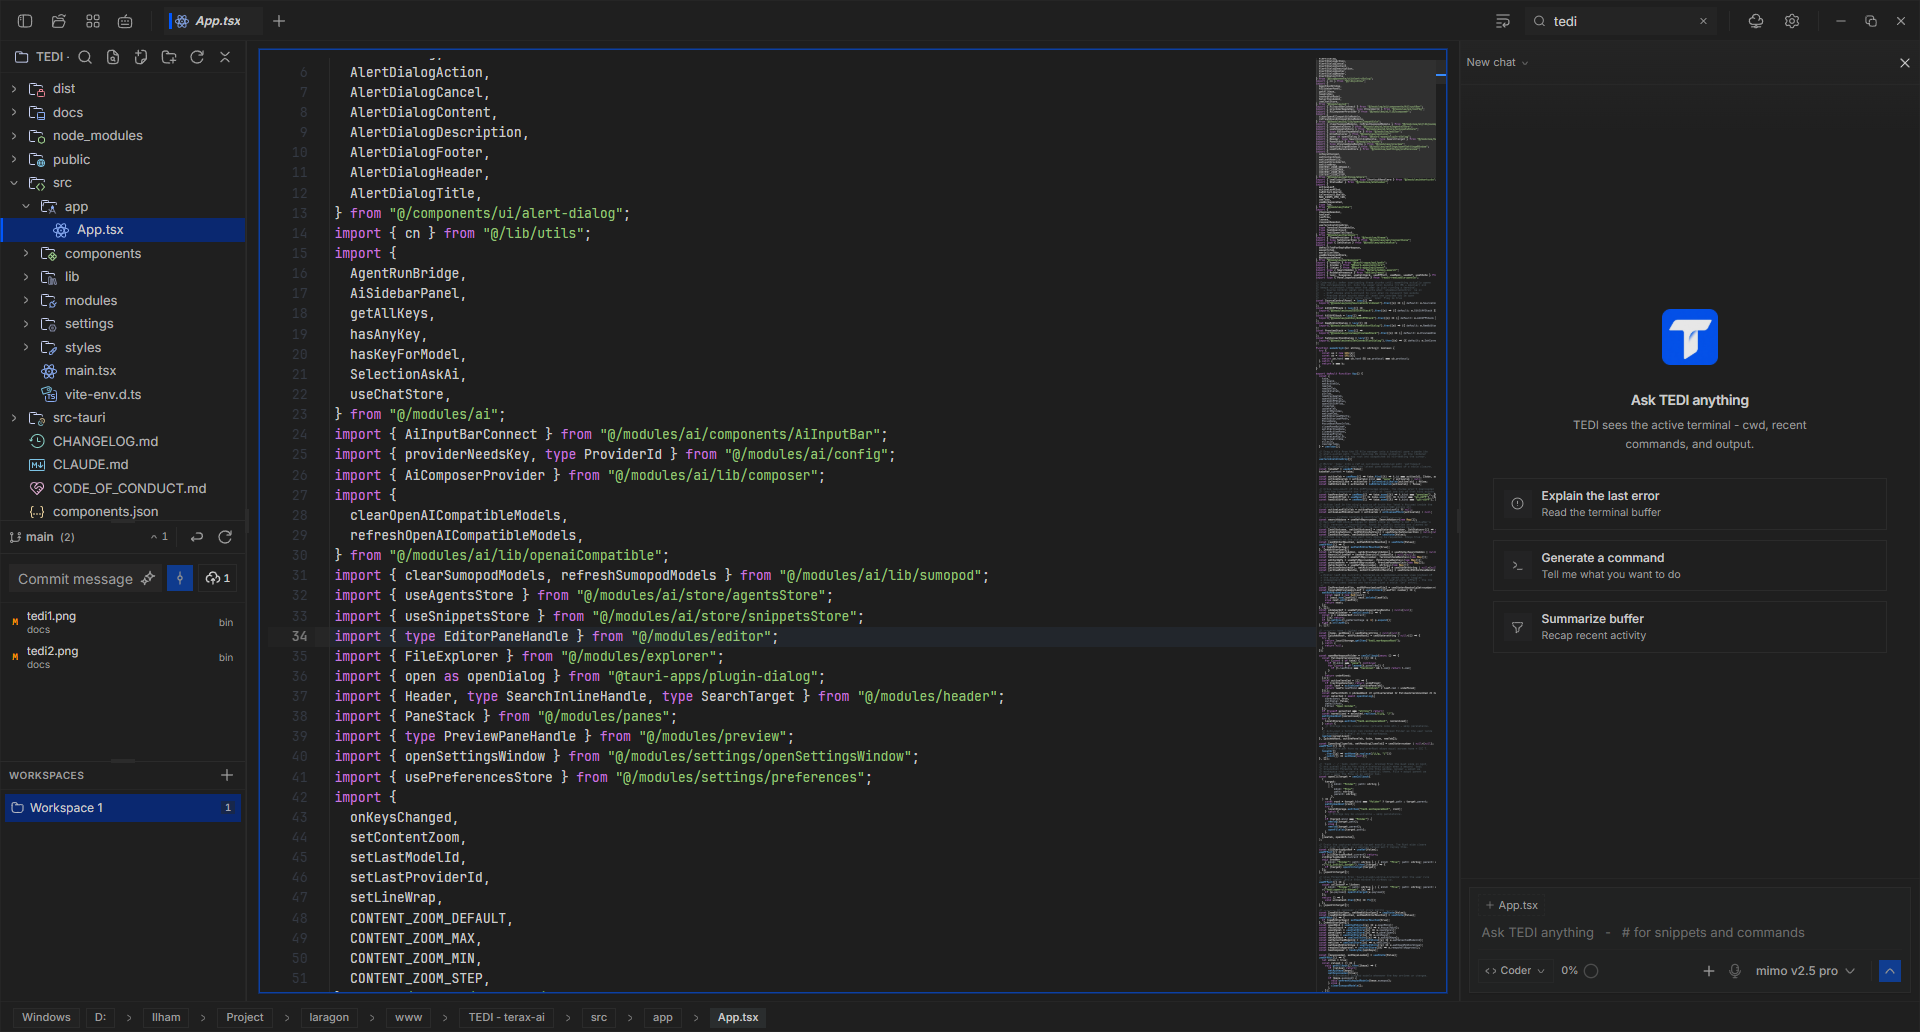
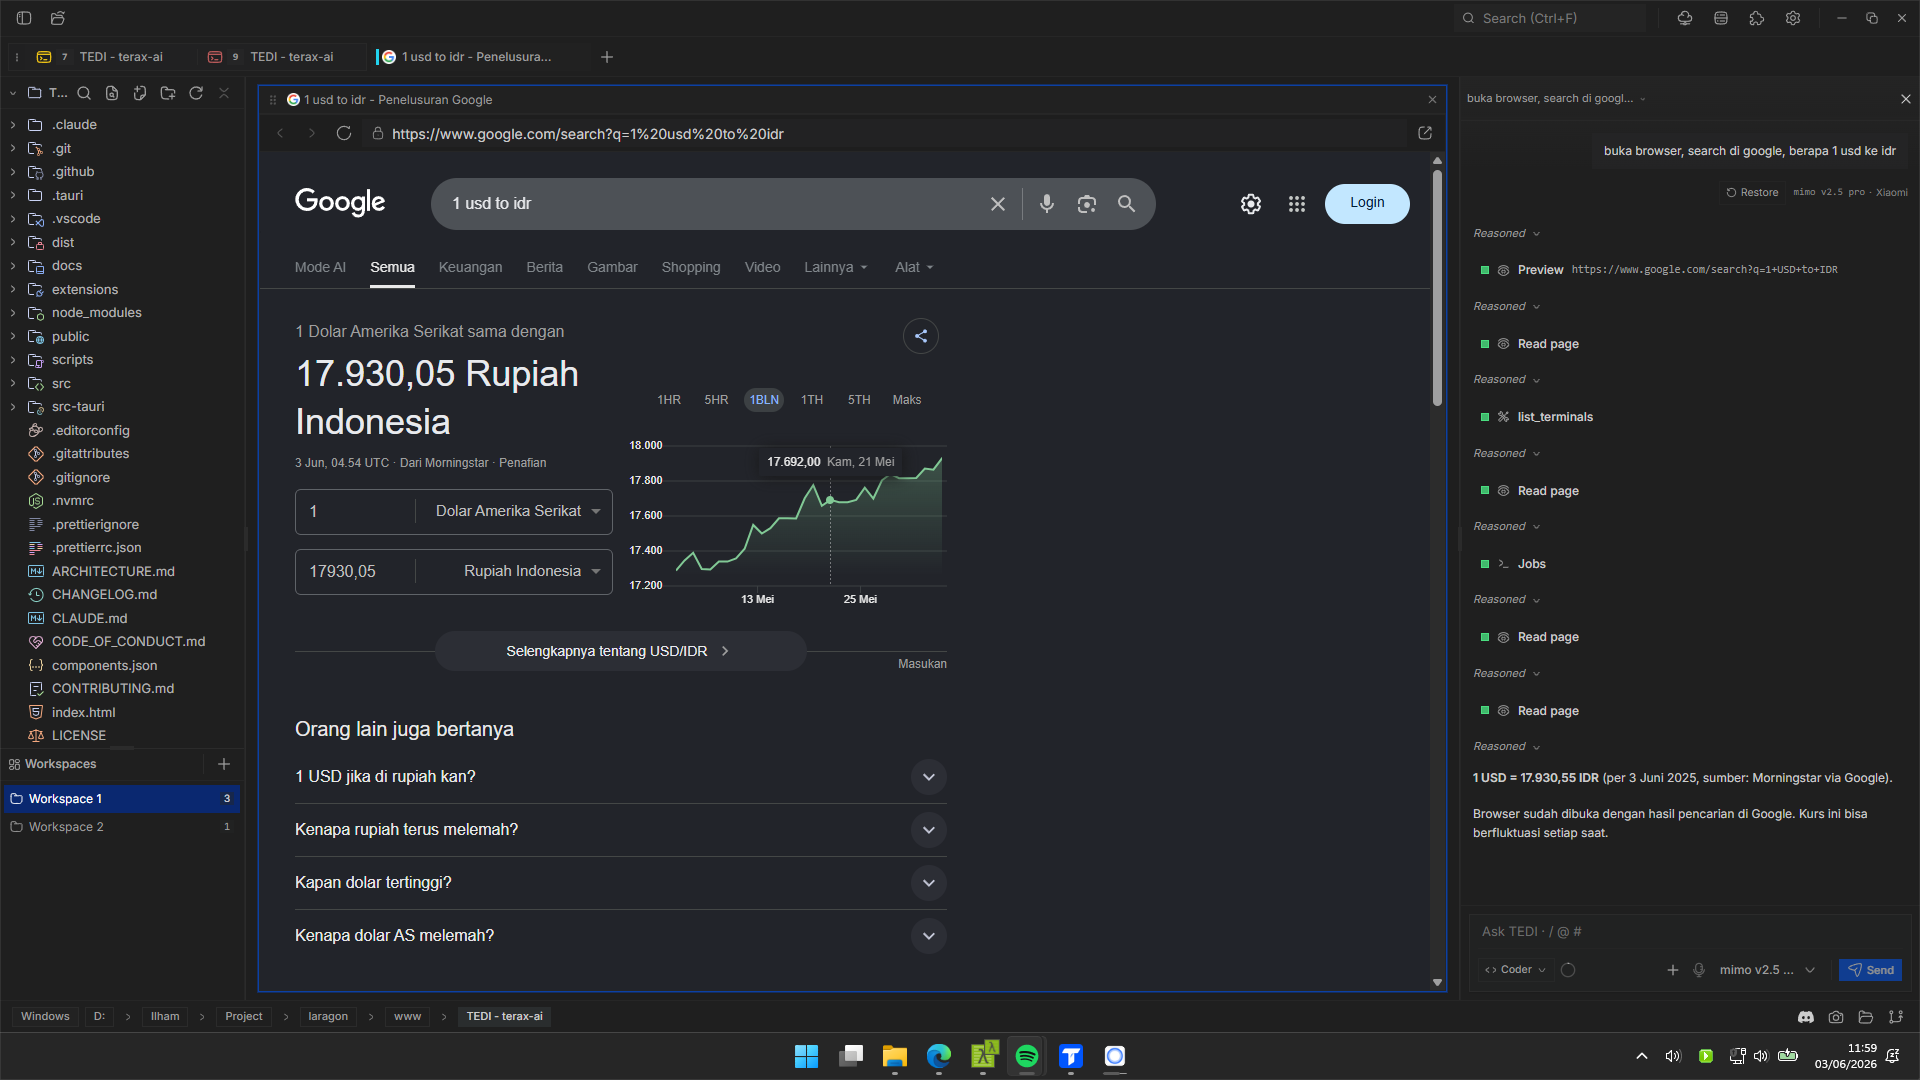
release: v0.3.20 - read_browser waits for rendered content, sidebar width restore, preview tooltip-hover fix
- read_browser now waits for the page to render stable content before
  extracting, so the first read after open_preview/navigate returns the
  loaded page in one call instead of a blank/half-loaded DOM that made the
  agent re-read repeatedly and wander into unrelated tools
  (preview_embed_read + PROBE_JS in src-tauri/src/modules/preview/embed.rs).
- File-explorer sidebar keeps its width across a window minimize then
  restore, not just its collapsed state: App snapshots the last live width
  and re-applies it on restore (App.tsx, AppSidebar.tsx).
- Browser preview no longer flickers away on a plain tooltip hover; the
  overlay-suppression that hides the webview behind TEDI's own menus/dialogs
  now ignores non-interactive Radix tooltips (overlaySuppress.ts).

diff --git a/src/app/App.tsx b/src/app/App.tsx
@@ -60,7 +60,7 @@ import { useWorkspacesStore } from "@/modules/workspaces";
 import type { SearchAddon } from "@xterm/addon-search";
 import { getCurrentWindow } from "@tauri-apps/api/window";
 import { useCallback, useEffect, useMemo, useRef, useState } from "react";
-import type { PanelImperativeHandle } from "react-resizable-panels";
+import type { PanelImperativeHandle, PanelSize } from "react-resizable-panels";
 import { buildShortcutHandlers } from "./lib/shortcutHandlers";
 import { useApplyZoom } from "./hooks/useApplyZoom";
 import { useRightPanelExclusion } from "./hooks/useRightPanelExclusion";
@@ -232,6 +232,26 @@ export default function App() {
     extensionId: string;
     prior: RightAuxSnapshot;
   } | null>(null);
+  // Last user-intended sidebar width in px, so a window minimize -> restore can
+  // put it back. react-resizable-panels recomputes its layout against the 0px
+  // container a minimized window reports, which leaves the sidebar shrunk (or
+  // collapsed) once the window comes back. We snapshot the good width on every
+  // resize *while the window is live*, then re-apply it on restore. `frozen`
+  // pauses tracking across the minimize->restore window so the corrupt 0px-era
+  // sizes never overwrite the good value.
+  const lastSidebarPxRef = useRef<number | null>(null);
+  const sidebarTrackingFrozenRef = useRef(false);
+  const handleSidebarResize = useCallback((size: PanelSize) => {
+    if (sidebarTrackingFrozenRef.current) return;
+    // A minimized/hidden window reports a degenerate layout; ignore it. Guards
+    // the race where the DOM resize fires before our Tauri minimize listener.
+    if (document.visibilityState !== "visible") return;
+    // While the window is live the panel enforces its `minSize`, so any width
+    // below it is a 0px-container transition artifact, not a real user width.
+    // Belt-and-suspenders for the same race. Keep in sync with AppSidebar's
+    // `minSize="130px"`.
+    if (size.inPixels >= 130) lastSidebarPxRef.current = size.inPixels;
+  }, []);
   const toggleSidebar = useCallback(() => {
     const p = sidebarRef.current;
     if (!p) return;
@@ -246,10 +266,11 @@ export default function App() {
   }, []);
 
   // Minimizing the window reports a 0px container to react-resizable-panels,
-  // which collapses the collapsible sidebar and leaves it collapsed once the
-  // window is restored/maximized. On the minimize->restore transition, re-open
-  // the sidebar - but only undo a spurious collapse, never one the user made
-  // (userCollapsedSidebarRef) or an extension made by hiding it
+  // which recomputes its layout and leaves the sidebar either collapsed or just
+  // shrunk to an arbitrary smaller width once the window is restored/maximized.
+  // On the minimize->restore transition, re-open and re-size the sidebar back to
+  // the user's last width - but only undo a spurious change, never one the user
+  // made (userCollapsedSidebarRef) or an extension made by hiding it
   // (sidebarHiderRef).
   useEffect(() => {
     const w = getCurrentWindow();
@@ -259,18 +280,26 @@ export default function App() {
       .onResized(async () => {
         const minimized = await w.isMinimized();
         if (minimized) {
+          // Freeze size tracking so the 0px-container resizes that follow don't
+          // overwrite the good width we want to restore.
+          sidebarTrackingFrozenRef.current = true;
           wasMinimized = true;
           return;
         }
         if (!wasMinimized) return;
         wasMinimized = false;
         // Defer past the panel library's own post-restore layout pass so our
-        // expand() is the final word.
+        // expand()/resize() is the final word, then resume tracking.
         setTimeout(() => {
           const p = sidebarRef.current;
-          if (!p || !p.isCollapsed()) return;
-          if (userCollapsedSidebarRef.current || sidebarHiderRef.current) return;
-          p.expand();
+          if (p && !userCollapsedSidebarRef.current && !sidebarHiderRef.current) {
+            if (p.isCollapsed()) p.expand();
+            const want = lastSidebarPxRef.current;
+            if (want != null && Math.abs(p.getSize().inPixels - want) > 1) {
+              p.resize(`${want}px`);
+            }
+          }
+          sidebarTrackingFrozenRef.current = false;
         }, 120);
       })
       .then((u) => {
@@ -703,6 +732,7 @@ export default function App() {
             <ResizablePanelGroup orientation="horizontal" className="min-h-0 flex-1">
               <AppSidebar
                 sidebarRef={sidebarRef}
+                onSidebarResize={handleSidebarResize}
                 explorerRoot={explorerRoot}
                 hasAnySshLeaf={hasAnySshLeaf}
                 localFilesCollapsed={localFilesCollapsed}

diff --git a/src/modules/preview/lib/overlaySuppress.ts b/src/modules/preview/lib/overlaySuppress.ts
@@ -9,12 +9,42 @@ import { useSyncExternalStore } from "react";
  * This module is the cheap gate: a shallow `<body>` observer flips
  * {@link useAnyOverlayOpen} when any overlay element is mounted, so the
  * per-frame geometric test ({@link anyOverlayIntersects}) only runs while
- * something is actually open. Overlays positioned *away* from the webview
- * (e.g. the toolbar tooltips, which open `side="top"`) never match the
- * geometric test, so hovering the toolbar doesn't flicker the page.
+ * something is actually open.
+ *
+ * **Tooltips are deliberately excluded.** Radix tooltips are popper-based, so
+ * they also match `[data-radix-popper-content-wrapper]`, but they are
+ * non-interactive (`pointer-events: none`) and transient. The status-bar icon
+ * buttons open their tooltips `side="top"` - i.e. straight up over the preview
+ * pane - so counting them as overlays made the whole browser page flash away on
+ * a plain hover, then reappear on hover-out. Real, interactive surfaces (menus,
+ * dialogs, popovers, selects) still suppress the webview so they stay clickable
+ * on top of it; only tooltips are ignored. The trade-off is a tooltip that
+ * happens to overlap the pane renders *behind* the webview, which is far less
+ * disruptive than the page vanishing.
  */
 const OVERLAY_SELECTOR =
   '[data-radix-popper-content-wrapper], [role="dialog"], [role="alertdialog"], [role="menu"]';
+
+/**
+ * A tooltip popper to be ignored. Every app tooltip renders
+ * `[data-slot="tooltip-content"]` inside its `[data-radix-popper-content-wrapper]`
+ * (see {@link file://../../../components/ui/tooltip.tsx}), and radix only puts
+ * `role="tooltip"` on a visually-hidden a11y span - so the `data-slot` marker is
+ * the reliable signal for the *visible* bubble. Non-tooltip overlays (menus,
+ * dialogs, popovers, selects) never carry it, so they still count.
+ */
+function isTooltipPopper(el: Element): boolean {
+  return el.querySelector('[data-slot="tooltip-content"]') !== null;
+}
+
+/** True when at least one *non-tooltip* overlay is currently mounted. */
+function hasRealOverlay(): boolean {
+  const els = document.querySelectorAll(OVERLAY_SELECTOR);
+  for (let i = 0; i < els.length; i++) {
+    if (!isTooltipPopper(els[i])) return true;
+  }
+  return false;
+}
 
 let isOpen = false;
 let rafId = 0;
@@ -24,7 +54,7 @@ const listeners = new Set<() => void>();
 
 function recompute() {
   rafId = 0;
-  const next = document.querySelector(OVERLAY_SELECTOR) !== null;
+  const next = hasRealOverlay();
   if (next === isOpen) return;
   isOpen = next;
   listeners.forEach((l) => l());
@@ -74,6 +104,7 @@ export function useAnyOverlayOpen(): boolean {
 export function anyOverlayIntersects(rect: DOMRect): boolean {
   const overlays = document.querySelectorAll(OVERLAY_SELECTOR);
   for (let i = 0; i < overlays.length; i++) {
+    if (isTooltipPopper(overlays[i])) continue;
     const o = overlays[i].getBoundingClientRect();
     if (o.width < 1 || o.height < 1) continue;
     if (o.left < rect.right && o.right > rect.left && o.top < rect.bottom && o.bottom > rect.top) {

diff --git a/src/app/components/AppSidebar.tsx b/src/app/components/AppSidebar.tsx
@@ -3,12 +3,15 @@ import { cn } from "@/lib/utils";
 import { FileExplorer } from "@/modules/explorer";
 import { WorkspacesPanel } from "@/modules/workspaces";
 import { Suspense, type RefObject } from "react";
-import type { PanelImperativeHandle } from "react-resizable-panels";
+import type { PanelImperativeHandle, PanelSize } from "react-resizable-panels";
 import { type TabsApi } from "../hooks/tabsApi";
 import { SourceControlPanel, SshFileExplorer } from "./lazyPanels";
 
 type Props = {
   sidebarRef: RefObject<PanelImperativeHandle | null>;
+  /** Reports the sidebar panel's size on every resize (drag + window resize),
+   *  so App can snapshot the user's width and restore it after a minimize. */
+  onSidebarResize: (size: PanelSize) => void;
   explorerRoot: string | null;
   hasAnySshLeaf: boolean;
   localFilesCollapsed: boolean;
@@ -45,6 +48,7 @@ type Props = {
  */
 export function AppSidebar({
   sidebarRef,
+  onSidebarResize,
   explorerRoot,
   hasAnySshLeaf,
   localFilesCollapsed,
@@ -72,6 +76,7 @@ export function AppSidebar({
     <ResizablePanel
       id="sidebar"
       panelRef={sidebarRef}
+      onResize={onSidebarResize}
       defaultSize="225px"
       minSize="130px"
       maxSize="450px"

diff --git a/src-tauri/src/modules/preview/embed.rs b/src-tauri/src/modules/preview/embed.rs
@@ -238,11 +238,14 @@ pub async fn preview_embed_dispatch(
 }
 
 /// Read the live, JS-rendered text of an embedded browser pane (title + visible
-/// body text, capped). Lets the AI get page content - view counts, article
-/// text, search results - that a plain HTTP fetch (curl) can't see on JS-heavy
-/// sites. Runs at the webview level via `eval_with_callback`, so it works on any
-/// loaded page (no Tauri IPC needed in the page) and only reads visible text
-/// (innerText, never executes page-supplied code into the host).
+/// body text + a `Values:` list of form-field values, capped). Lets the AI get
+/// page content - view counts, article text, search results, converter/calculator
+/// outputs - that a plain HTTP fetch (curl) can't see on JS-heavy sites. Waits
+/// (bounded) for the page to render stable content first, so a read fired right
+/// after open/navigate returns the loaded page in one call instead of empty text.
+/// Runs at the webview level via `eval_with_callback`, so it works on any loaded
+/// page (no Tauri IPC needed in the page) and only reads visible text (innerText,
+/// never executes page-supplied code into the host).
 ///
 /// Token-light by construction (the result is fed to the AI every read): it
 /// prefers the page's `<main>`/`<article>` content over the whole body to drop
@@ -258,11 +261,45 @@ pub async fn preview_embed_read(
     let wv = app
         .get_webview(&embed_label(tab_id))
         .ok_or_else(|| "no open browser pane with that id".to_string())?;
+    // Wait (bounded ~3s) for the page to actually have rendered, stable content
+    // before extracting, so a read fired right after open_preview / navigate
+    // returns the LOADED page in ONE call. Without this the first read often hit
+    // a blank or half-loaded DOM, returned almost nothing, and the agent re-read
+    // several times (wandering into unrelated tools while it waited) before the
+    // content appeared. Cheap when already loaded: two quick probes confirm the
+    // body text has stopped growing, then we read.
+    let mut prev: i64 = -2;
+    for _ in 0..15 {
+        let cur = eval_for_string(wv.clone(), PROBE_JS.to_string())
+            .await
+            .ok()
+            .and_then(|s| s.trim().parse::<i64>().ok())
+            .unwrap_or(-1);
+        // cur >= 0 => readyState complete; equal to the previous probe => body
+        // text stopped growing. -1 => still loading/navigating, keep waiting.
+        if cur >= 0 && cur == prev {
+            break;
+        }
+        prev = cur;
+        tokio::time::sleep(Duration::from_millis(200)).await;
+    }
     // Prepend the FIELDS flag the script reads; concat (not format!) so the
     // script's many `{}` need no escaping.
     let js = format!("var FIELDS={fields};") + READ_JS;
     eval_for_string(wv, js).await
 }
+
+/// Tiny readiness probe for `preview_embed_read`'s wait loop: the body's
+/// non-whitespace text length once `document.readyState === "complete"` AND that
+/// length is past a small floor, else "-1" (still loading, navigating, blank, or
+/// errored - keep waiting). The floor matters because a freshly created webview
+/// can report `complete` on an empty document before the real page paints; the
+/// caller treats two equal non-negative results as "loaded and stable".
+const PROBE_JS: &str = r#"(function(){try{
+  if(document.readyState!=="complete")return "-1";
+  var n=document.body?document.body.innerText.replace(/\s+/g,"").length:0;
+  return n<30?"-1":(""+n);
+}catch(e){return "-1";}})()"#;
 
 /// Title + reader-mode body text + a `Values:` list of form-control values
 /// (innerText omits input/select values, where currency/unit converters,

diff --git a/CHANGELOG.md b/CHANGELOG.md
@@ -4,6 +4,14 @@ All notable changes to **TEDI**. Format follows [Keep a Changelog](https://keepa
 
 > TEDI is a fork of [crynta/terax-ai](https://github.com/crynta/terax-ai), starting from upstream **Terax v0.5.9**. Earlier history belongs to the upstream project: see [Terax CHANGELOG](https://github.com/crynta/terax-ai/blob/main/CHANGELOG.md).
 
+## [0.3.20] - 03-06-2026
+
+### Fixed
+
+- **`read_browser` waits for the page to finish rendering before extracting.** A read fired right after `open_preview` / navigate could hit a blank or half-loaded DOM, return almost nothing, and the agent would re-read several times (and wander into unrelated tools) while it waited for content. `preview_embed_read` now polls a tiny readiness probe (document `complete` plus body text that has stopped growing) for up to ~3s, so the first read returns the loaded page in one call ([`preview_embed_read`](src-tauri/src/modules/preview/embed.rs)).
+- **The file-explorer sidebar keeps its width across a window minimize then restore.** The 0.3.19 fix re-opened a spuriously collapsed sidebar, but a minimize against the 0px container Windows reports could still leave it shrunk to an arbitrary smaller width. App now snapshots the user's last sidebar width while the window is live and re-applies it on the minimize->restore transition, without overriding a collapse the user or an extension made ([`App.tsx`](src/app/App.tsx), [`AppSidebar.tsx`](src/app/components/AppSidebar.tsx)).
+- **Browser preview no longer flickers away on a plain tooltip hover.** The overlay-suppression that hides the native preview webview behind TEDI's own menus and dialogs now ignores non-interactive Radix tooltips (matched by their `[data-slot="tooltip-content"]` marker), so hovering a status-bar icon whose tooltip opens over the pane no longer makes the page vanish and reappear. Real overlays (menus, dialogs, popovers, selects) still suppress the webview so they stay clickable on top of it ([`overlaySuppress.ts`](src/modules/preview/lib/overlaySuppress.ts)).
+
 ## [0.3.19] - 03-06-2026
 
 ### Fixed
